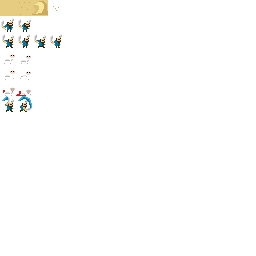
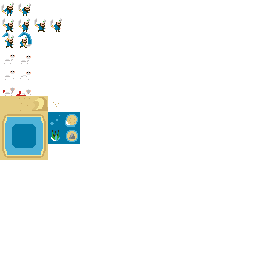
Create new atlas and change sprite indexest

Changed region(s): [[0.0, 0.375, 0.3125, 0.625], [0.0, 0.0, 0.25, 0.1875]]

diff --git a/htdocs/index.html b/htdocs/index.html
@@ -65,21 +65,21 @@ var M = Math,
 	D = document,
 	W = window,
 	FA = Float32Array,
-	SAND1 = 0,
-	SAND2 = 1,
-	DUST = 3,
-	HERDER_IDLE1 = 16,
-	HERDER_IDLE2 = 17,
-	HERDER_WALK1 = 32,
-	HERDER_WALK2 = 33,
-	HERDER_WALK3 = 34,
-	HERDER_WALK4 = 35,
-	HERDER_ATTACK1 = 80,
-	HERDER_ATTACK2 = 81,
+	HERDER_IDLE1 = 0,
+	HERDER_IDLE2 = 1,
+	HERDER_WALK1 = 16,
+	HERDER_WALK2 = 17,
+	HERDER_WALK3 = 18,
+	HERDER_WALK4 = 19,
+	HERDER_ATTACK1 = 32,
+	HERDER_ATTACK2 = 33,
 	LAMB_IDLE1 = 48,
 	LAMB_IDLE2 = 49,
 	LAMB_WALK1 = 64,
 	LAMB_WALK2 = 65,
+	SAND1 = 96,
+	SAND2 = 97,
+	DUST = 99,
 	atlas,
 	canvas,
 	sprites = [],
